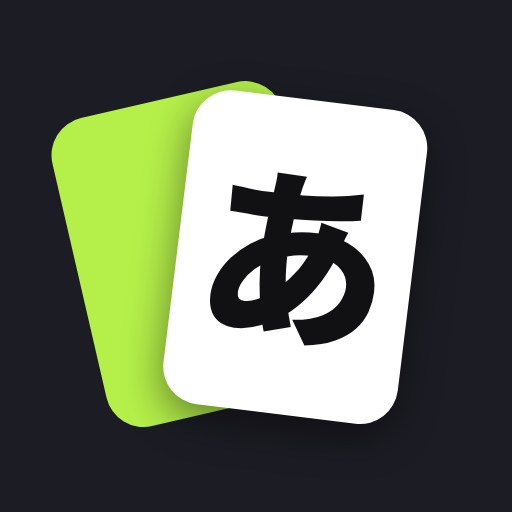
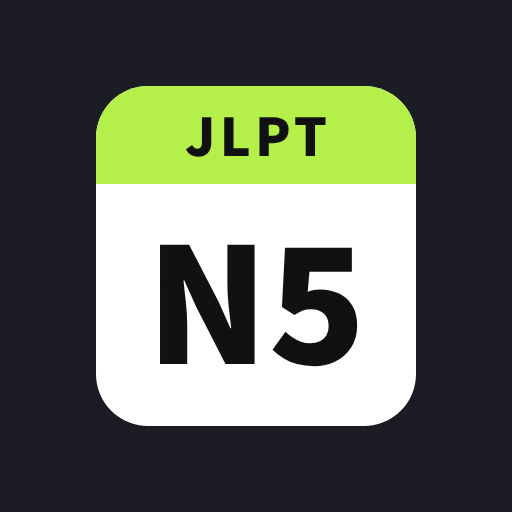
JLPT N5 단어 앱: 앱 아이콘 변경 (JLPT N5 카드)
Claude-Session: https://claude.ai/code/session_01TwEppkx3VojbPwYHZexrSZ

Changed region(s): [[0.0938, 0.1562, 0.8438, 0.8438]]

diff --git a/jlpt-n5/sw.js b/jlpt-n5/sw.js
@@ -1,4 +1,4 @@
-const CACHE="n5-7d75cd627d";const CORE=8;const PRECACHE=["./", "index.html", "words.js", "assets.js", "manifest.webmanifest", "icon-192.png", "icon-512.png", "apple-touch-icon.png", "img/abunai.webp", "img/ageru.webp", "img/aida.webp", "img/akai.webp", "img/akarui.webp", "img/akeru.webp", "img/aki.webp", "img/aku.webp", "img/amai.webp", "img/ame.webp", "img/ane.webp", "img/ani.webp", "img/aoi.webp", "img/apaato.webp", "img/arau.webp", "img/arigatou.webp", "img/aru.webp", "img/aruku.webp", "img/asa.webp", "img/asagohan.webp", "img/ashi.webp", "img/ashita.webp", "img/asobu.webp", "img/asoko.webp", "img/atama.webp", "img/atarashii.webp", "img/atatakai.webp", "img/atsui.webp", "img/atsui_t.webp", "img/au.webp", "img/bangohan.webp", "img/basu.webp", "img/bataa.webp", "img/beddo.webp", "img/benkyou.webp", "img/benri.webp", "img/boorupen.webp", "img/boushi.webp", "img/bunshou.webp", "img/butaniku.webp", "img/byouin.webp", "img/byouki.webp", "img/chairo.webp", "img/chawan.webp", "img/chichi.webp", "img/chiisai.webp", "img/chikai.webp", "img/chikaku.webp", "img/chikatetsu.webp", "img/chizu.webp", "img/chotto.webp", "img/daidokoro.webp", "img/daigaku.webp", "img/daijoubu.webp", "img/daisuki.webp", "img/dare.webp", "img/dasu.webp", "img/deguchi.webp", "img/dekakeru.webp", "img/dekiru.webp", "img/denki.webp", "img/densha.webp", "img/denwa.webp", "img/depaato.webp", "img/deru.webp", "img/doa.webp", "img/doko.webp", "img/dore.webp", "img/doubutsu.webp", "img/doushite.webp", "img/douzo.webp", "img/doyoubi.webp", "img/e.webp", "img/eiga.webp", "img/eigakan.webp", "img/eigo.webp", "img/eki.webp", "img/en.webp", "img/enpitsu.webp", "img/erebeetaa.webp", "img/fooku.webp", "img/fuku.webp", "img/fune.webp", "img/furu.webp", "img/furui.webp", "img/futari.webp", "img/futatsu.webp", "img/futoi.webp", "img/fuutou.webp", "img/fuyu.webp", "img/gaikoku.webp", "img/gaikokugo.webp", "img/gaikokujin.webp", "img/gakkou.webp", "img/gakusei.webp", "img/genkan.webp", "img/genki.webp", "img/getsuyoubi.webp", "img/ginkou.webp", "img/gitaa.webp", "img/gochisousama.webp", "img/gogo.webp", "img/gohan.webp", "img/gozen.webp", "img/gyuuniku.webp", "img/gyuunyuu.webp", "img/ha.webp", "img/hagaki.webp", "img/haha.webp", "img/hairu.webp", "img/hajimaru.webp", "img/hajimemashite.webp", "img/hako.webp", "img/hana.webp", "img/hana2.webp", "img/hanashi.webp", "img/hanasu.webp", "img/hanbun.webp", "img/hare.webp", "img/haru.webp", "img/hashi_b.webp", "img/hashi_c.webp", "img/hashiru.webp", "img/hataraku.webp", "img/hayai.webp", "img/hayai2.webp", "img/heta.webp", "img/heya.webp", "img/hidari.webp", "img/higashi.webp", "img/hikouki.webp", "img/hiku.webp", "img/hikui.webp", "img/hima.webp", "img/hiragana.webp", "img/hiroi.webp", "img/hiru.webp", "img/hito.webp", "img/hitori.webp", "img/hitotsu.webp", "img/hon.webp", "img/hondana.webp", "img/hoshii.webp", "img/hosoi.webp", "img/hoteru.webp", "img/hyaku.webp", "img/ichiban.webp", "img/ichimai.webp", "img/ie.webp", "img/ii.webp", "img/ike.webp", "img/iku.webp", "img/ikura.webp", "img/ikutsu.webp", "img/ima.webp", "img/imi.webp", "img/imouto.webp", "img/inu.webp", "img/ippon.webp", "img/ireru.webp", "img/iriguchi.webp", "img/iro.webp", "img/iroiro.webp", "img/iru.webp", "img/isha.webp", "img/isogashii.webp", "img/issho.webp", "img/isu.webp", "img/itadakimasu.webp", "img/itai.webp", "img/itsu.webp", "img/itsumo.webp", "img/itsutsu.webp", "img/iu.webp", "img/ji.webp", "img/jidousha.webp", "img/jikan.webp", "img/jisho.webp", "img/jitensha.webp", "img/joubu.webp", "img/jouzu.webp", "img/kaban.webp", "img/kado.webp", "img/kaeru.webp", "img/kagi.webp", "img/kaidan.webp", "img/kaimono.webp", "img/kaisha.webp", "img/kakaru.webp", "img/kaku.webp", "img/kamera.webp", "img/kami.webp", "img/kanji.webp", "img/kao.webp", "img/karada.webp", "img/karai.webp", "img/karee.webp", "img/kariru.webp", "img/karui.webp", "img/kasa.webp", "img/kasu.webp", "img/katakana.webp", "img/kau.webp", "img/kawa.webp", "img/kawaii.webp", "img/kayoubi.webp", "img/kaze.webp", "img/kazebyo.webp", "img/kazoku.webp", "img/kekkon.webp", "img/kekkou.webp", "img/kesa.webp", "img/ki.webp", "img/kieru.webp", "img/kiiroi.webp", "img/kiku.webp", "img/kinou.webp", "img/kinyoubi.webp", "img/kippu.webp", "img/kirai.webp", "img/kirei.webp", "img/kiru_k.webp", "img/kiru_w.webp", "img/kissaten.webp", "img/kita.webp", "img/kitanai.webp", "img/kitte.webp", "img/kodomo.webp", "img/koko.webp", "img/kokonotsu.webp", "img/komaru.webp", "img/konban.webp", "img/konbanwa.webp", "img/konnichiwa.webp", "img/konshuu.webp", "img/koohii.webp", "img/koppu.webp", "img/kore.webp", "img/kotaeru.webp", "img/kotoba.webp", "img/kotoshi.webp", "img/kouban.webp", "img/koucha.webp", "img/kouen.webp", "img/kuchi.webp", "img/kudamono.webp", "img/kumori.webp", "img/kuni.webp", "img/kurai.webp", "img/kurasu.webp", "img/kuroi.webp", "img/kuru.webp", "img/kuruma.webp", "img/kusuri.webp", "img/kutsu.webp", "img/kutsushita.webp", "img/kyonen.webp", "img/kyou.webp", "img/kyoudai.webp", "img/kyoushitsu.webp", "img/machi.webp", "img/mada.webp", "img/mado.webp", "img/mae.webp", "img/magaru.webp", "img/mainichi.webp", "img/man.webp", "img/marui.webp", "img/matsu.webp", "img/mazui.webp", "img/me.webp", "img/megane.webp", "img/michi.webp", "img/midori.webp", "img/migi.webp", "img/mijikai.webp", "img/mimi.webp", "img/minami.webp", "img/miru.webp", "img/mise.webp", "img/miseru.webp", "img/mittsu.webp", "img/mizu.webp", "img/mokuyoubi.webp", "img/mondai.webp", "img/motsu.webp", "img/motto.webp", "img/mou.webp", "img/mukou.webp", "img/muttsu.webp", "img/muzukashii.webp", "img/nagai.webp", "img/naka.webp", "img/namae.webp", "img/nanatsu.webp", "img/nani.webp", "img/nanji.webp", "img/nannin.webp", "img/narabu.webp", "img/narau.webp", "img/naru.webp", "img/natsu.webp", "img/neko.webp", "img/nekutai.webp", "img/neru.webp", "img/nichiyoubi.webp", "img/nigiyaka.webp", "img/niku.webp", "img/nimotsu.webp", "img/nishi.webp", "img/niwa.webp", "img/noboru.webp", "img/nomimono.webp", "img/nomu.webp", "img/nooto.webp", "img/noru.webp", "img/nugu.webp", "img/nyuusu.webp", "img/obaasan.webp", "img/obentou.webp", "img/oboeru.webp", "img/ocha.webp", "img/ohayou.webp", "img/oishii.webp", "img/ojiisan.webp", "img/okaasan.webp", "img/okane.webp", "img/okashi.webp", "img/okiru.webp", "img/oku.webp", "img/omoi.webp", "img/omoshiroi.webp", "img/onaji.webp", "img/oneesan.webp", "img/ongaku.webp", "img/oniisan.webp", "img/onna.webp", "img/onnanoko.webp", "img/ooi.webp", "img/ookii.webp", "img/oriru.webp", "img/osake.webp", "img/oshieru.webp", "img/osoi.webp", "img/osu.webp", "img/otoko.webp", "img/otokonoko.webp", "img/otona.webp", "img/otousan.webp", "img/otouto.webp", "img/owaru.webp", "img/oyasumi.webp", "img/oyogu.webp", "img/paatii.webp", "img/pan.webp", "img/pen.webp", "img/petto.webp", "img/piano.webp", "img/posuto.webp", "img/puuru.webp", "img/raigetsu.webp", "img/rainen.webp", "img/raishuu.webp", "img/rajio.webp", "img/reizouko.webp", "img/renshuu.webp", "img/resutoran.webp", "img/ringo.webp", "img/rippa.webp", "img/ryokou.webp", "img/ryouri.webp", "img/ryoushin.webp", "img/ryuugakusei.webp", "img/saifu.webp", "img/sakana.webp", "img/saku.webp", "img/sakubun.webp", "img/samui.webp", "img/sanpo.webp", "img/sara.webp", "img/satou.webp", "img/sayounara.webp", "img/seetaa.webp", "img/semai.webp", "img/sen.webp", "img/sengetsu.webp", "img/sensei.webp", "img/senshuu.webp", "img/sentaku.webp", "img/shashin.webp", "img/shatsu.webp", "img/shawaa.webp", "img/shigoto.webp", "img/shiken.webp", "img/shimeru.webp", "img/shinbun.webp", "img/shio.webp", "img/shiroi.webp", "img/shiru.webp", "img/shita.webp", "img/shitsumon.webp", "img/shizuka.webp", "img/shokudou.webp", "img/shouyu.webp", "img/shukudai.webp", "img/soko.webp", "img/sora.webp", "img/sore.webp", "img/soto.webp", "img/souji.webp", "img/suiyoubi.webp", "img/sukaato.webp", "img/suki.webp", "img/sukoshi.webp", "img/sukunai.webp", "img/sumimasen.webp", "img/sumu.webp", "img/supootsu.webp", "img/supuun.webp", "img/suru.webp", "img/sutoobu.webp", "img/suwaru.webp", "img/suzushii.webp", "img/tabemono.webp", "img/taberu.webp", "img/taihen.webp", "img/taisetsu.webp", "img/taishikan.webp", "img/taitei.webp", "img/takai.webp", "img/takusan.webp", "img/takushii.webp", "img/tamago.webp", "img/tanjoubi.webp", "img/tanomu.webp", "img/tanoshii.webp", "img/tatemono.webp", "img/tatsu.webp", "img/te.webp", "img/teeburu.webp", "img/tegami.webp", "img/tenki.webp", "img/terebi.webp", "img/tobu.webp", "img/tokei.webp", "img/tokidoki.webp", "img/tomodachi.webp", "img/tonari.webp", "img/too.webp", "img/tooi.webp", "img/tori.webp", "img/toriniku.webp", "img/toru.webp", "img/toshokan.webp", "img/totemo.webp", "img/tsukareru.webp", "img/tsukau.webp", "img/tsuki.webp", "img/tsuku.webp", "img/tsukue.webp", "img/tsukuru.webp", "img/tsumaranai.webp", "img/tsumetai.webp", "img/tsuyoi.webp", "img/ue.webp", "img/umareru.webp", "img/umi.webp", "img/uru.webp", "img/ushiro.webp", "img/usui.webp", "img/uta.webp", "img/utau.webp", "img/wakai.webp", "img/wakaru.webp", "img/warui.webp", "img/wasureru.webp", "img/wataru.webp", "img/watashi.webp", "img/yama.webp", "img/yaoya.webp", "img/yasai.webp", "img/yasashii.webp", "img/yasui.webp", "img/yasumu.webp", "img/yattsu.webp", "img/yobu.webp", "img/yoko.webp", "img/yoku.webp", "img/yomu.webp", "img/yoru.webp", "img/yottsu.webp", "img/yowai.webp", "img/yuki.webp", "img/yukkuri.webp", "img/yuubinkyoku.webp", "img/yuugata.webp", "img/yuumei.webp", "img/zasshi.webp", "img/zenbu.webp", "img/zubon.webp"];
+const CACHE="n5-1f3ff8dfd1";const CORE=8;const PRECACHE=["./", "index.html", "words.js", "assets.js", "manifest.webmanifest", "icon-192.png", "icon-512.png", "apple-touch-icon.png", "img/abunai.webp", "img/ageru.webp", "img/aida.webp", "img/akai.webp", "img/akarui.webp", "img/akeru.webp", "img/aki.webp", "img/aku.webp", "img/amai.webp", "img/ame.webp", "img/ane.webp", "img/ani.webp", "img/aoi.webp", "img/apaato.webp", "img/arau.webp", "img/arigatou.webp", "img/aru.webp", "img/aruku.webp", "img/asa.webp", "img/asagohan.webp", "img/ashi.webp", "img/ashita.webp", "img/asobu.webp", "img/asoko.webp", "img/atama.webp", "img/atarashii.webp", "img/atatakai.webp", "img/atsui.webp", "img/atsui_t.webp", "img/au.webp", "img/bangohan.webp", "img/basu.webp", "img/bataa.webp", "img/beddo.webp", "img/benkyou.webp", "img/benri.webp", "img/boorupen.webp", "img/boushi.webp", "img/bunshou.webp", "img/butaniku.webp", "img/byouin.webp", "img/byouki.webp", "img/chairo.webp", "img/chawan.webp", "img/chichi.webp", "img/chiisai.webp", "img/chikai.webp", "img/chikaku.webp", "img/chikatetsu.webp", "img/chizu.webp", "img/chotto.webp", "img/daidokoro.webp", "img/daigaku.webp", "img/daijoubu.webp", "img/daisuki.webp", "img/dare.webp", "img/dasu.webp", "img/deguchi.webp", "img/dekakeru.webp", "img/dekiru.webp", "img/denki.webp", "img/densha.webp", "img/denwa.webp", "img/depaato.webp", "img/deru.webp", "img/doa.webp", "img/doko.webp", "img/dore.webp", "img/doubutsu.webp", "img/doushite.webp", "img/douzo.webp", "img/doyoubi.webp", "img/e.webp", "img/eiga.webp", "img/eigakan.webp", "img/eigo.webp", "img/eki.webp", "img/en.webp", "img/enpitsu.webp", "img/erebeetaa.webp", "img/fooku.webp", "img/fuku.webp", "img/fune.webp", "img/furu.webp", "img/furui.webp", "img/futari.webp", "img/futatsu.webp", "img/futoi.webp", "img/fuutou.webp", "img/fuyu.webp", "img/gaikoku.webp", "img/gaikokugo.webp", "img/gaikokujin.webp", "img/gakkou.webp", "img/gakusei.webp", "img/genkan.webp", "img/genki.webp", "img/getsuyoubi.webp", "img/ginkou.webp", "img/gitaa.webp", "img/gochisousama.webp", "img/gogo.webp", "img/gohan.webp", "img/gozen.webp", "img/gyuuniku.webp", "img/gyuunyuu.webp", "img/ha.webp", "img/hagaki.webp", "img/haha.webp", "img/hairu.webp", "img/hajimaru.webp", "img/hajimemashite.webp", "img/hako.webp", "img/hana.webp", "img/hana2.webp", "img/hanashi.webp", "img/hanasu.webp", "img/hanbun.webp", "img/hare.webp", "img/haru.webp", "img/hashi_b.webp", "img/hashi_c.webp", "img/hashiru.webp", "img/hataraku.webp", "img/hayai.webp", "img/hayai2.webp", "img/heta.webp", "img/heya.webp", "img/hidari.webp", "img/higashi.webp", "img/hikouki.webp", "img/hiku.webp", "img/hikui.webp", "img/hima.webp", "img/hiragana.webp", "img/hiroi.webp", "img/hiru.webp", "img/hito.webp", "img/hitori.webp", "img/hitotsu.webp", "img/hon.webp", "img/hondana.webp", "img/hoshii.webp", "img/hosoi.webp", "img/hoteru.webp", "img/hyaku.webp", "img/ichiban.webp", "img/ichimai.webp", "img/ie.webp", "img/ii.webp", "img/ike.webp", "img/iku.webp", "img/ikura.webp", "img/ikutsu.webp", "img/ima.webp", "img/imi.webp", "img/imouto.webp", "img/inu.webp", "img/ippon.webp", "img/ireru.webp", "img/iriguchi.webp", "img/iro.webp", "img/iroiro.webp", "img/iru.webp", "img/isha.webp", "img/isogashii.webp", "img/issho.webp", "img/isu.webp", "img/itadakimasu.webp", "img/itai.webp", "img/itsu.webp", "img/itsumo.webp", "img/itsutsu.webp", "img/iu.webp", "img/ji.webp", "img/jidousha.webp", "img/jikan.webp", "img/jisho.webp", "img/jitensha.webp", "img/joubu.webp", "img/jouzu.webp", "img/kaban.webp", "img/kado.webp", "img/kaeru.webp", "img/kagi.webp", "img/kaidan.webp", "img/kaimono.webp", "img/kaisha.webp", "img/kakaru.webp", "img/kaku.webp", "img/kamera.webp", "img/kami.webp", "img/kanji.webp", "img/kao.webp", "img/karada.webp", "img/karai.webp", "img/karee.webp", "img/kariru.webp", "img/karui.webp", "img/kasa.webp", "img/kasu.webp", "img/katakana.webp", "img/kau.webp", "img/kawa.webp", "img/kawaii.webp", "img/kayoubi.webp", "img/kaze.webp", "img/kazebyo.webp", "img/kazoku.webp", "img/kekkon.webp", "img/kekkou.webp", "img/kesa.webp", "img/ki.webp", "img/kieru.webp", "img/kiiroi.webp", "img/kiku.webp", "img/kinou.webp", "img/kinyoubi.webp", "img/kippu.webp", "img/kirai.webp", "img/kirei.webp", "img/kiru_k.webp", "img/kiru_w.webp", "img/kissaten.webp", "img/kita.webp", "img/kitanai.webp", "img/kitte.webp", "img/kodomo.webp", "img/koko.webp", "img/kokonotsu.webp", "img/komaru.webp", "img/konban.webp", "img/konbanwa.webp", "img/konnichiwa.webp", "img/konshuu.webp", "img/koohii.webp", "img/koppu.webp", "img/kore.webp", "img/kotaeru.webp", "img/kotoba.webp", "img/kotoshi.webp", "img/kouban.webp", "img/koucha.webp", "img/kouen.webp", "img/kuchi.webp", "img/kudamono.webp", "img/kumori.webp", "img/kuni.webp", "img/kurai.webp", "img/kurasu.webp", "img/kuroi.webp", "img/kuru.webp", "img/kuruma.webp", "img/kusuri.webp", "img/kutsu.webp", "img/kutsushita.webp", "img/kyonen.webp", "img/kyou.webp", "img/kyoudai.webp", "img/kyoushitsu.webp", "img/machi.webp", "img/mada.webp", "img/mado.webp", "img/mae.webp", "img/magaru.webp", "img/mainichi.webp", "img/man.webp", "img/marui.webp", "img/matsu.webp", "img/mazui.webp", "img/me.webp", "img/megane.webp", "img/michi.webp", "img/midori.webp", "img/migi.webp", "img/mijikai.webp", "img/mimi.webp", "img/minami.webp", "img/miru.webp", "img/mise.webp", "img/miseru.webp", "img/mittsu.webp", "img/mizu.webp", "img/mokuyoubi.webp", "img/mondai.webp", "img/motsu.webp", "img/motto.webp", "img/mou.webp", "img/mukou.webp", "img/muttsu.webp", "img/muzukashii.webp", "img/nagai.webp", "img/naka.webp", "img/namae.webp", "img/nanatsu.webp", "img/nani.webp", "img/nanji.webp", "img/nannin.webp", "img/narabu.webp", "img/narau.webp", "img/naru.webp", "img/natsu.webp", "img/neko.webp", "img/nekutai.webp", "img/neru.webp", "img/nichiyoubi.webp", "img/nigiyaka.webp", "img/niku.webp", "img/nimotsu.webp", "img/nishi.webp", "img/niwa.webp", "img/noboru.webp", "img/nomimono.webp", "img/nomu.webp", "img/nooto.webp", "img/noru.webp", "img/nugu.webp", "img/nyuusu.webp", "img/obaasan.webp", "img/obentou.webp", "img/oboeru.webp", "img/ocha.webp", "img/ohayou.webp", "img/oishii.webp", "img/ojiisan.webp", "img/okaasan.webp", "img/okane.webp", "img/okashi.webp", "img/okiru.webp", "img/oku.webp", "img/omoi.webp", "img/omoshiroi.webp", "img/onaji.webp", "img/oneesan.webp", "img/ongaku.webp", "img/oniisan.webp", "img/onna.webp", "img/onnanoko.webp", "img/ooi.webp", "img/ookii.webp", "img/oriru.webp", "img/osake.webp", "img/oshieru.webp", "img/osoi.webp", "img/osu.webp", "img/otoko.webp", "img/otokonoko.webp", "img/otona.webp", "img/otousan.webp", "img/otouto.webp", "img/owaru.webp", "img/oyasumi.webp", "img/oyogu.webp", "img/paatii.webp", "img/pan.webp", "img/pen.webp", "img/petto.webp", "img/piano.webp", "img/posuto.webp", "img/puuru.webp", "img/raigetsu.webp", "img/rainen.webp", "img/raishuu.webp", "img/rajio.webp", "img/reizouko.webp", "img/renshuu.webp", "img/resutoran.webp", "img/ringo.webp", "img/rippa.webp", "img/ryokou.webp", "img/ryouri.webp", "img/ryoushin.webp", "img/ryuugakusei.webp", "img/saifu.webp", "img/sakana.webp", "img/saku.webp", "img/sakubun.webp", "img/samui.webp", "img/sanpo.webp", "img/sara.webp", "img/satou.webp", "img/sayounara.webp", "img/seetaa.webp", "img/semai.webp", "img/sen.webp", "img/sengetsu.webp", "img/sensei.webp", "img/senshuu.webp", "img/sentaku.webp", "img/shashin.webp", "img/shatsu.webp", "img/shawaa.webp", "img/shigoto.webp", "img/shiken.webp", "img/shimeru.webp", "img/shinbun.webp", "img/shio.webp", "img/shiroi.webp", "img/shiru.webp", "img/shita.webp", "img/shitsumon.webp", "img/shizuka.webp", "img/shokudou.webp", "img/shouyu.webp", "img/shukudai.webp", "img/soko.webp", "img/sora.webp", "img/sore.webp", "img/soto.webp", "img/souji.webp", "img/suiyoubi.webp", "img/sukaato.webp", "img/suki.webp", "img/sukoshi.webp", "img/sukunai.webp", "img/sumimasen.webp", "img/sumu.webp", "img/supootsu.webp", "img/supuun.webp", "img/suru.webp", "img/sutoobu.webp", "img/suwaru.webp", "img/suzushii.webp", "img/tabemono.webp", "img/taberu.webp", "img/taihen.webp", "img/taisetsu.webp", "img/taishikan.webp", "img/taitei.webp", "img/takai.webp", "img/takusan.webp", "img/takushii.webp", "img/tamago.webp", "img/tanjoubi.webp", "img/tanomu.webp", "img/tanoshii.webp", "img/tatemono.webp", "img/tatsu.webp", "img/te.webp", "img/teeburu.webp", "img/tegami.webp", "img/tenki.webp", "img/terebi.webp", "img/tobu.webp", "img/tokei.webp", "img/tokidoki.webp", "img/tomodachi.webp", "img/tonari.webp", "img/too.webp", "img/tooi.webp", "img/tori.webp", "img/toriniku.webp", "img/toru.webp", "img/toshokan.webp", "img/totemo.webp", "img/tsukareru.webp", "img/tsukau.webp", "img/tsuki.webp", "img/tsuku.webp", "img/tsukue.webp", "img/tsukuru.webp", "img/tsumaranai.webp", "img/tsumetai.webp", "img/tsuyoi.webp", "img/ue.webp", "img/umareru.webp", "img/umi.webp", "img/uru.webp", "img/ushiro.webp", "img/usui.webp", "img/uta.webp", "img/utau.webp", "img/wakai.webp", "img/wakaru.webp", "img/warui.webp", "img/wasureru.webp", "img/wataru.webp", "img/watashi.webp", "img/yama.webp", "img/yaoya.webp", "img/yasai.webp", "img/yasashii.webp", "img/yasui.webp", "img/yasumu.webp", "img/yattsu.webp", "img/yobu.webp", "img/yoko.webp", "img/yoku.webp", "img/yomu.webp", "img/yoru.webp", "img/yottsu.webp", "img/yowai.webp", "img/yuki.webp", "img/yukkuri.webp", "img/yuubinkyoku.webp", "img/yuugata.webp", "img/yuumei.webp", "img/zasshi.webp", "img/zenbu.webp", "img/zubon.webp"];
 self.addEventListener("install",e=>{e.waitUntil(caches.open(CACHE).then(c=>c.addAll(PRECACHE.slice(0,CORE))).then(()=>self.skipWaiting()))});
 self.addEventListener("activate",e=>{e.waitUntil(caches.keys().then(ks=>Promise.all(ks.filter(k=>k.startsWith("n5-")&&k!==CACHE).map(k=>caches.delete(k)))).then(()=>self.clients.claim()))});
 async function ensure(){const c=await caches.open(CACHE);const have=new Set((await c.keys()).map(r=>new URL(r.url).pathname));
